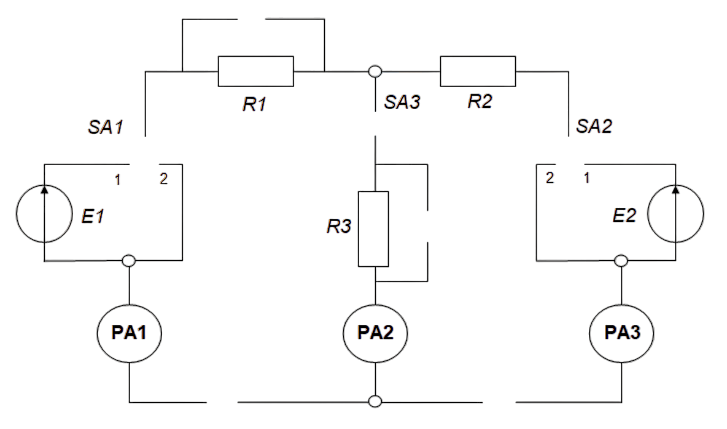
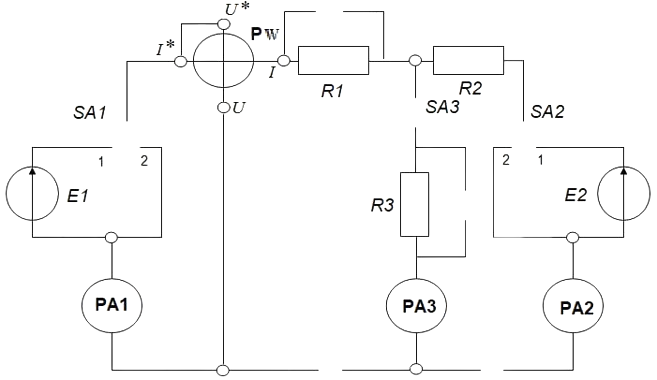
Changed main picture and switches

diff --git a/Laboratory work #1/MainWindow.Designer.cs b/Laboratory work #1/MainWindow.Designer.cs
@@ -71,8 +71,8 @@
             MainPicture.Image = Properties.Resources.main_picture_shem;
             MainPicture.Location = new Point(32, 12);
             MainPicture.Name = "MainPicture";
-            MainPicture.Size = new Size(640, 400);
-            MainPicture.SizeMode = PictureBoxSizeMode.Zoom;
+            MainPicture.Size = new Size(657, 380);
+            MainPicture.SizeMode = PictureBoxSizeMode.AutoSize;
             MainPicture.TabIndex = 0;
             MainPicture.TabStop = false;
             MainPicture.Paint += MainPicture_Paint;
@@ -245,6 +245,7 @@
             // 
             TextBoxResultOm3.Location = new Point(60, 297);
             TextBoxResultOm3.Name = "TextBoxResultOm3";
+            TextBoxResultOm3.ReadOnly = true;
             TextBoxResultOm3.Size = new Size(100, 23);
             TextBoxResultOm3.TabIndex = 13;
             // 
@@ -261,6 +262,7 @@
             // 
             TextBoxResultOm2.Location = new Point(60, 252);
             TextBoxResultOm2.Name = "TextBoxResultOm2";
+            TextBoxResultOm2.ReadOnly = true;
             TextBoxResultOm2.Size = new Size(100, 23);
             TextBoxResultOm2.TabIndex = 11;
             // 
@@ -277,6 +279,7 @@
             // 
             TextBoxResultOm1.Location = new Point(60, 207);
             TextBoxResultOm1.Name = "TextBoxResultOm1";
+            TextBoxResultOm1.ReadOnly = true;
             TextBoxResultOm1.Size = new Size(100, 23);
             TextBoxResultOm1.TabIndex = 9;
             // 
@@ -302,6 +305,7 @@
             // 
             TextBoxResultElement3.Location = new Point(60, 127);
             TextBoxResultElement3.Name = "TextBoxResultElement3";
+            TextBoxResultElement3.ReadOnly = true;
             TextBoxResultElement3.Size = new Size(100, 23);
             TextBoxResultElement3.TabIndex = 6;
             // 
@@ -318,6 +322,7 @@
             // 
             TextBoxResultElement2.Location = new Point(60, 82);
             TextBoxResultElement2.Name = "TextBoxResultElement2";
+            TextBoxResultElement2.ReadOnly = true;
             TextBoxResultElement2.Size = new Size(100, 23);
             TextBoxResultElement2.TabIndex = 4;
             // 
@@ -334,6 +339,7 @@
             // 
             TextBoxResultElement1.Location = new Point(60, 37);
             TextBoxResultElement1.Name = "TextBoxResultElement1";
+            TextBoxResultElement1.ReadOnly = true;
             TextBoxResultElement1.Size = new Size(100, 23);
             TextBoxResultElement1.TabIndex = 2;
             // 

diff --git a/Laboratory work #1/MainWindow.cs b/Laboratory work #1/MainWindow.cs
@@ -6,13 +6,13 @@ namespace Laboratory_work__1
         bool[] Switches = { false, false, false, false, false, false, false };
         double[,] Result = new double[3, 3];
         int[,,] Coordinates = { // { start, on, off }
-            { { 128, 130 },{ 110, 157 }, { 140, 157 } }, // Coordinates switch SA1
-            { { 500, 130 },{ 520, 157 }, { 490, 157 } }, // Coordinates switch SA2
-            { { 330, 108 },{ 330, 130 }, { 340, 130 } }, // Coordinates switch SA3
-            { { 376, 225 },{ 376, 195 }, { 365, 195 } }, // Coordinates switch On/Off R3
-            { { 208, 28 },{ 235, 28 }, { 235, 18 } }, // Coordinates switch On/Off R1
-            { { 210, 364 },{ 180, 364 }, { 180, 354 } }, // Coordinates switch On/Off Left site shem
-            { { 422, 364 },{ 455, 364 }, { 455, 354 } } // Coordinates switch On/Off Right site shem
+            { { 127, 120 },{ 110, 150 }, { 140, 150 } }, // Coordinates switch SA1
+            { { 523, 120 },{ 540, 150 }, { 510, 150 } }, // Coordinates switch SA2
+            { { 415, 126 },{ 415, 97 }, { 405, 100 } }, // Coordinates switch SA3
+            { { 465, 220 },{ 465, 190 }, { 455, 190 } }, // Coordinates switch On/Off R3
+            { { 315, 11 },{ 345, 11 }, { 345, 20 } }, // Coordinates switch On/Off R1
+            { { 343, 370 },{ 318, 370 }, { 320, 360 } }, // Coordinates switch On/Off Left site shem
+            { { 480, 370 },{ 505, 370 }, { 505, 360 } } // Coordinates switch On/Off Right site shem
         };
         int Range = 25;
 
@@ -45,7 +45,7 @@ namespace Laboratory_work__1
             }
             else
             {
-                Graphic.DrawLine(Pens.Black, Coordinates[0, 0, 0], Coordinates[0, 0, 0],
+                Graphic.DrawLine(Pens.Black, Coordinates[0, 0, 0], Coordinates[0, 0, 1],
                     Coordinates[0, 2, 0], Coordinates[0, 2, 1]);
                 TextBoxERS1.ReadOnly = true;
             }
